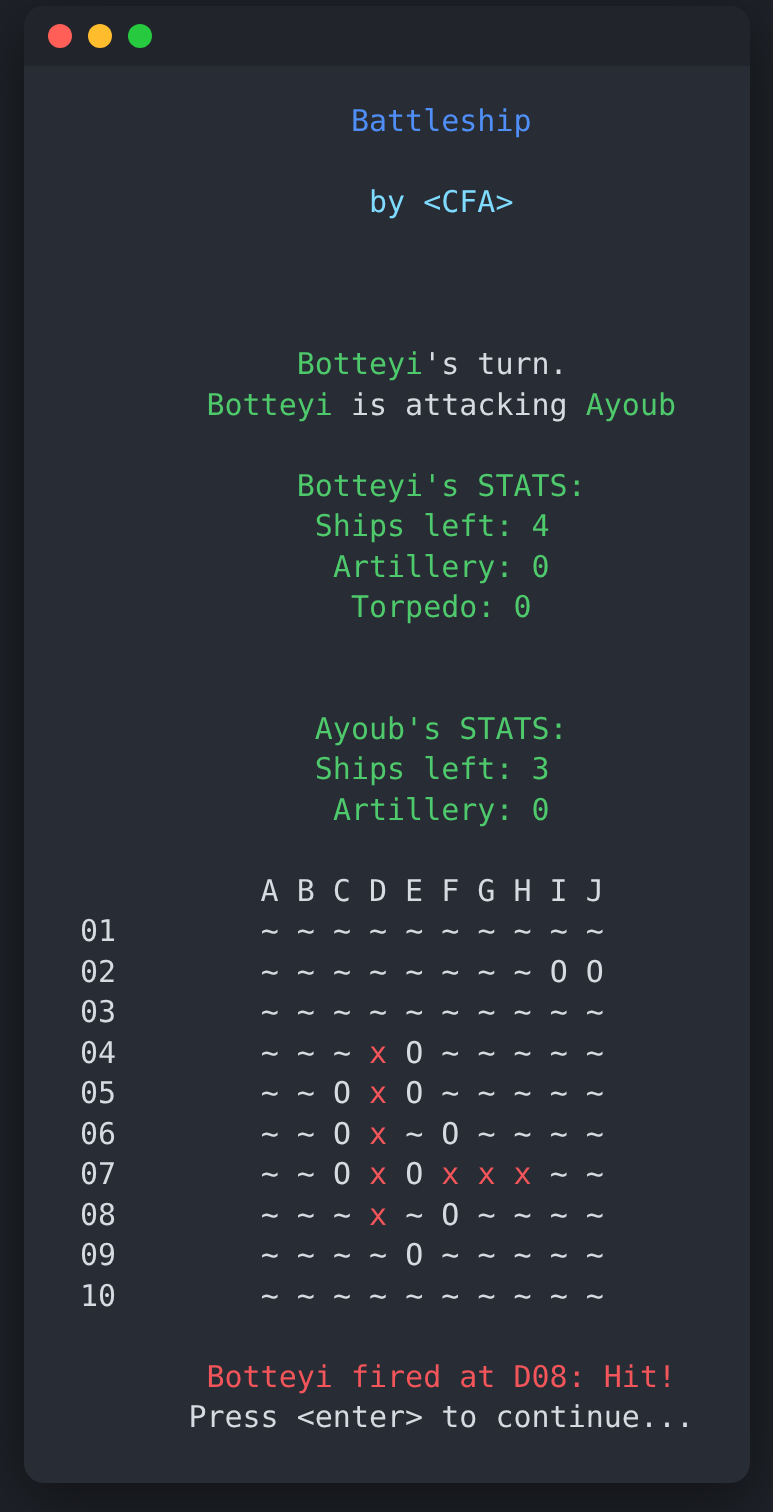
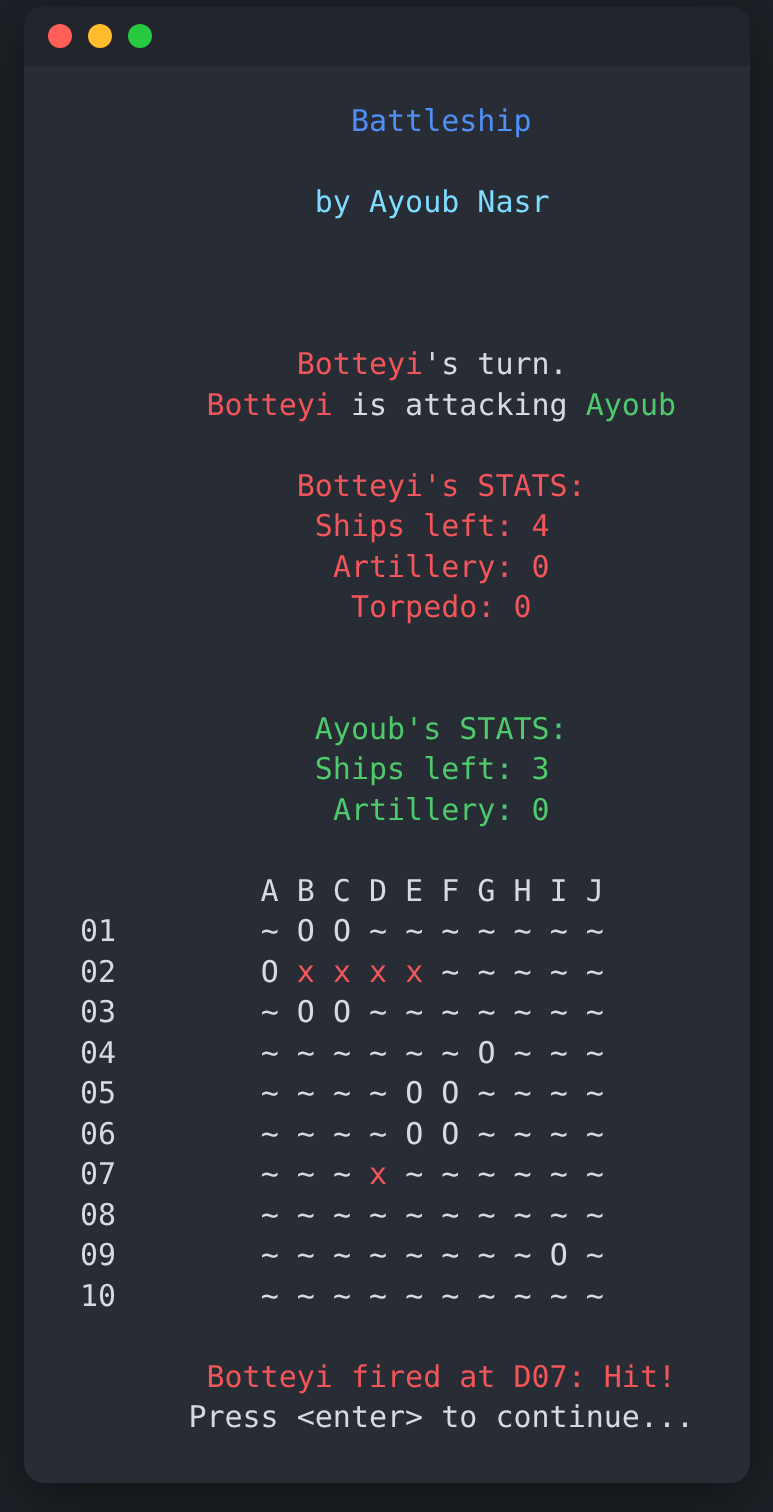
Replace the <CFA> group credit with Ayoub Nasr
The title screen now reads 'by Ayoub Nasr'. The README screenshot is
re-rendered from the updated game.

diff --git a/include/Statements.h b/include/Statements.h
@@ -5,7 +5,7 @@
 #pragma region Welcome Statements
 
 #define TITLE "Battleship"
-#define BYGROUPNAME "by <CFA>"
+#define BYGROUPNAME "by Ayoub Nasr"
 #define WELCOME_STATEMENT "Welcome to Battleship!"
 
 #pragma endregion

diff --git a/README.md b/README.md
@@ -7,7 +7,7 @@ probability map of your grid, and adjusts how much risk it takes depending on ho
 
 Built for **CMPS 270 (Software Construction) at the American University of Beirut, Fall 2024**.
 
-<p align="center"><img src="docs/screenshot.png" alt="The hard bot hunting down a carrier: hits in red, misses as O, and the bot announcing its last shot" width="360"></p>
+<p align="center"><img src="docs/screenshot.png" alt="A game against the hard bot: hits in red, misses as O, and the bot announcing its last shot" width="360"></p>
 
 ## Features
 
